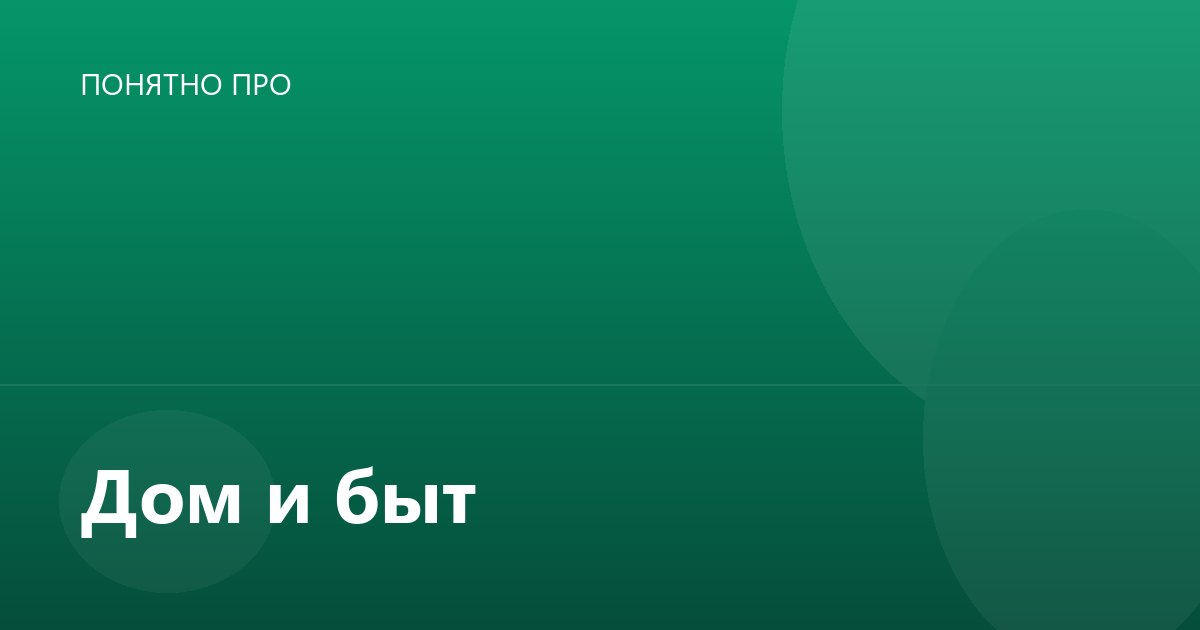
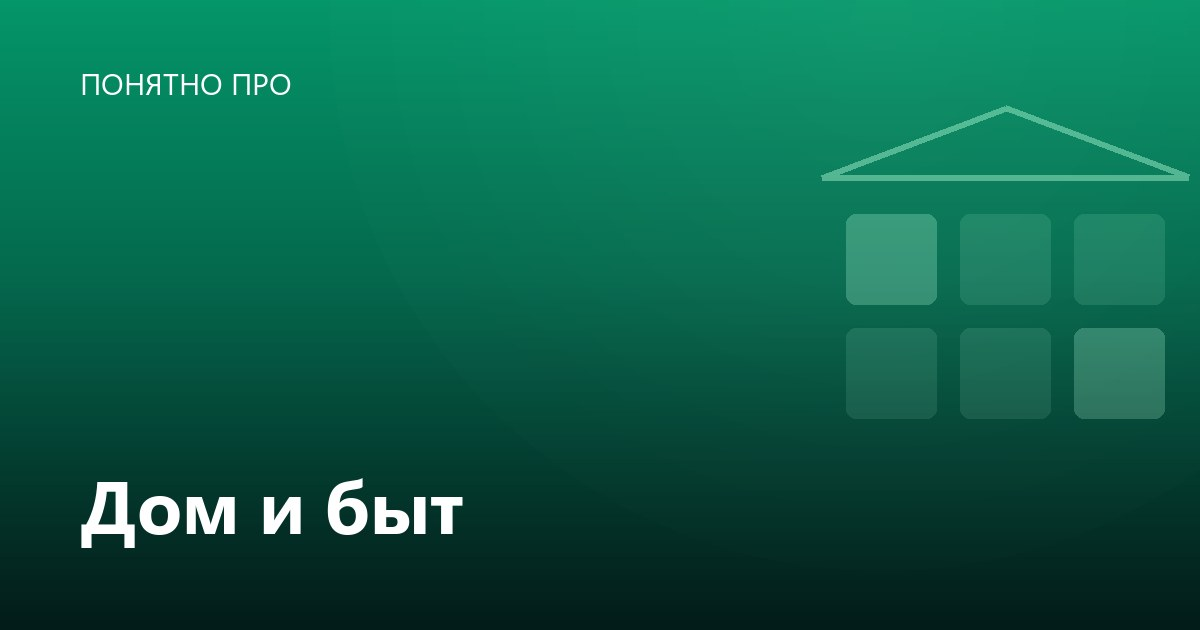
design: обложки с мотивами тем (графики, сеть, дом, дорога) и своими палитрами

diff --git a/scripts/make_cover.py b/scripts/make_cover.py
@@ -1,19 +1,26 @@
 #!/usr/bin/env python3
 # -*- coding: utf-8 -*-
-"""Обложки статей: графические, без текста заголовка.
+"""Обложки статей: графические, с мотивом под каждую тему.
 
-Зачем без заголовка: обложка стоит и в карточке сайта, и в ленте Дзена.
-Дублировать заголовок картинкой плохо — заголовок уже есть рядом.
+Идея: цвет и рисунок кодируют рубрику, поэтому в ленте Дзена и на сайте
+читатель узнаёт тему до чтения заголовка:
 
-    python scripts/make_cover.py --list      # для всех статей без обложки
-    python scripts/make_cover.py --all       # перерисовать все обложки
-    python scripts/make_cover.py "Рубрика" имя.jpg
+    Работа и доход    — синий,  столбики роста
+    ИИ и инструменты  — фиолетовый, сеть узлов
+    Дом и быт         — зелёный, окна дома
+    Авто и путь       — оранжевый, дорога
 
-Зависимости: Pillow.
+Заголовок статьи на обложку не наносится: он есть рядом в карточке и в ленте.
+
+    python scripts/make_cover.py --list      # только для статей без обложки
+    python scripts/make_cover.py --all       # перерисовать все
 """
 
 from __future__ import annotations
 
+import hashlib
+import math
+import random
 import sys
 from pathlib import Path
 
@@ -24,12 +31,12 @@ COVERS = ROOT / "static" / "covers"
 
 SIZE = (1200, 630)
 
-# палитра по рубрике: (начало градиента, конец градиента)
-RUBRIC_PALETTES = {
-    "rabota-i-dohod": ((37, 99, 235), (15, 23, 42)),
-    "ii-instrumenty": ((124, 58, 237), (30, 27, 75)),
-    "dom-i-byt": ((5, 150, 105), (6, 78, 59)),
-    "karta-i-put": ((234, 88, 12), (69, 26, 3)),
+# палитра: (верхний цвет, нижний цвет, цвет мотива)
+RUBRIC_STYLE = {
+    "rabota-i-dohod": ((37, 99, 235), (9, 20, 46), (147, 197, 253)),
+    "ii-instrumenty": ((124, 58, 237), (28, 17, 64), (196, 181, 253)),
+    "dom-i-byt": ((5, 150, 105), (4, 47, 42), (167, 243, 208)),
+    "karta-i-put": ((234, 88, 12), (59, 18, 4), (253, 186, 116)),
 }
 RUBRIC_TITLES = {
     "rabota-i-dohod": "Работа и доход",
@@ -37,7 +44,7 @@ RUBRIC_TITLES = {
     "dom-i-byt": "Дом и быт",
     "karta-i-put": "Авто и путь",
 }
-DEFAULT_PALETTE = ((26, 86, 219), (15, 23, 42))
+DEFAULT_STYLE = ((26, 86, 219), (15, 23, 42), (191, 219, 254))
 
 BOLD = [r"C:\Windows\Fonts\segoeuib.ttf", r"C:\Windows\Fonts\arialbd.ttf",
         "/usr/share/fonts/truetype/dejavu/DejaVuSans-Bold.ttf"]
@@ -54,52 +61,156 @@ def font(paths: list[str], size: int) -> ImageFont.FreeTypeFont:
     return ImageFont.load_default()
 
 
-def gradient(size: tuple[int, int], palette: tuple) -> Image.Image:
-    start, end = palette
+def gradient(size: tuple[int, int], top: tuple, bottom: tuple) -> Image.Image:
     w, h = size
-    img = Image.new("RGB", size, end)
+    img = Image.new("RGB", size, bottom)
     draw = ImageDraw.Draw(img)
     for y in range(h):
         t = y / h
-        color = tuple(int(start[i] + (end[i] - start[i]) * t) for i in range(3))
+        color = tuple(int(top[i] + (bottom[i] - top[i]) * t) for i in range(3))
         draw.line([(0, y), (w, y)], fill=color)
     return img
 
 
-def decorate(img: Image.Image, seed: str = "") -> None:
-    """Полупрозрачные круги и линия. Сдвиг зависит от slug — карточки не близнецы."""
-    import hashlib
+def glow(size: tuple[int, int], color: tuple, rnd: random.Random) -> Image.Image:
+    """Мягкое пятно света, чтобы фон не выглядел плоским."""
+    w, h = size
+    layer = Image.new("RGBA", size, (0, 0, 0, 0))
+    d = ImageDraw.Draw(layer)
+    cx = int(w * rnd.uniform(0.55, 0.95))
+    cy = int(h * rnd.uniform(-0.1, 0.35))
+    r = int(w * rnd.uniform(0.35, 0.55))
+    for i in range(18, 0, -1):
+        alpha = int(3 + (18 - i) * 0.9)
+        rr = int(r * i / 18)
+        d.ellipse([(cx - rr, cy - rr), (cx + rr, cy + rr)], fill=color + (alpha,))
+    return layer
 
-    w, h = img.size
-    dg = hashlib.md5(seed.encode("utf-8")).digest()
-    dx = (dg[0] / 255.0 - 0.5) * 0.18
-    dy = (dg[1] / 255.0 - 0.5) * 0.12
 
-    overlay = Image.new("RGBA", img.size, (0, 0, 0, 0))
-    d = ImageDraw.Draw(overlay)
-    d.ellipse([(w * (0.58 + dx), -h * 0.35), (w * (1.04 + dx), h * 0.70)], fill=(255, 255, 255, 18))
-    d.ellipse([(w * (0.76 + dy), h * (0.26 + dx)), (w * 1.04, h * 1.06)], fill=(255, 255, 255, 14))
-    d.ellipse([(w * (0.04 + dy), h * (0.58 + dx)), (w * (0.22 + dy), h * 0.94)], fill=(255, 255, 255, 12))
-    d.line([(0, h * (0.60 + dy)), (w, h * (0.60 + dy))], fill=(255, 255, 255, 22), width=2)
-    img.paste(Image.alpha_composite(img.convert("RGBA"), overlay).convert("RGB"), (0, 0))
+def motif_rabota(draw: ImageDraw.ImageDraw, w: int, h: int,
+                 color: tuple, rnd: random.Random) -> None:
+    """Столбики роста + восходящая линия."""
+    base_y = int(h * 0.80)
+    bars = 5
+    bw = int(w * 0.045)
+    gap = int(w * 0.022)
+    total = bars * bw + (bars - 1) * gap
+    x0 = int(w * 0.98 - total)
+    points = []
+    for i in range(bars):
+        hgt = int(h * rnd.uniform(0.10, 0.34))
+        x = x0 + i * (bw + gap)
+        draw.rounded_rectangle([(x, base_y - hgt), (x + bw, base_y)], radius=8,
+                               fill=color + (46,))
+        points.append((x + bw // 2, base_y - hgt - 14))
+    draw.line(points, fill=color + (120,), width=5, joint="curve")
+    for px, py in points:
+        draw.ellipse([(px - 7, py - 7), (px + 7, py + 7)], fill=color + (200,))
+
+
+def motif_ii(draw: ImageDraw.ImageDraw, w: int, h: int,
+             color: tuple, rnd: random.Random) -> None:
+    """Сеть узлов: точки и связи между соседними."""
+    nodes = []
+    for _ in range(9):
+        nodes.append((int(w * rnd.uniform(0.50, 0.96)), int(h * rnd.uniform(0.12, 0.80))))
+    for i, a in enumerate(nodes):
+        for b in nodes[i + 1:]:
+            dist = math.dist(a, b)
+            if dist < w * 0.22:
+                draw.line([a, b], fill=color + (38,), width=2)
+    for i, (x, y) in enumerate(nodes):
+        r = 15 if i % 4 == 0 else 8
+        draw.ellipse([(x - r, y - r), (x + r, y + r)],
+                     fill=color + ((150 if r > 10 else 110),))
+
+
+def motif_dom(draw: ImageDraw.ImageDraw, w: int, h: int,
+              color: tuple, rnd: random.Random) -> None:
+    """Окна дома: сетка скруглённых квадратов и линия крыши."""
+    cols, rows = 3, 2
+    cell = int(w * 0.075)
+    gap = int(w * 0.020)
+    total_w = cols * cell + (cols - 1) * gap
+    x0 = int(w * 0.97 - total_w)
+    y0 = int(h * 0.34)
+    for r in range(rows):
+        for c in range(cols):
+            x = x0 + c * (cell + gap)
+            y = y0 + r * (cell + gap)
+            draw.rounded_rectangle([(x, y), (x + cell, y + cell)], radius=10,
+                                   fill=color + ((34 if (r + c) % 3 else 74),))
+    # крыша
+    roof_y = y0 - int(h * 0.06)
+    draw.line([(x0 - gap, roof_y), (x0 + total_w + gap, roof_y)],
+              fill=color + (120,), width=6)
+    draw.line([(x0 - gap, roof_y), (x0 + total_w // 2, roof_y - int(h * 0.11))],
+              fill=color + (120,), width=6)
+    draw.line([(x0 + total_w + gap, roof_y), (x0 + total_w // 2, roof_y - int(h * 0.11))],
+              fill=color + (120,), width=6)
+
+
+def motif_karta(draw: ImageDraw.ImageDraw, w: int, h: int,
+                color: tuple, rnd: random.Random) -> None:
+    """Дорога: полоса с пунктиром уходит вдаль, слева — горизонт."""
+    band_top, band_bot = h * 0.50, h * 0.86
+    draw.polygon([(0, int(band_top)), (w, int(band_top - h * 0.12)),
+                  (w, int(band_bot - h * 0.16)), (0, int(band_bot))],
+                 fill=color + (26,))
+    # пунктир по центру полосы
+    steps = 8
+    for i in range(steps):
+        t0 = i / steps + 0.015
+        t1 = t0 + 0.06
+        mid0 = (band_top + band_bot) * 0.5 - h * 0.06 * t0
+        mid1 = (band_top + band_bot) * 0.5 - h * 0.06 * t1
+        draw.line([(int(w * t0), int(mid0)), (int(w * t1), int(mid1))],
+                  fill=color + (140,), width=7)
+    draw.line([(0, int(h * 0.50)), (w, int(h * 0.38))], fill=color + (60,), width=3)
+
+
+MOTIFS = {
+    "rabota-i-dohod": motif_rabota,
+    "ii-instrumenty": motif_ii,
+    "dom-i-byt": motif_dom,
+    "karta-i-put": motif_karta,
+}
 
 
 def make(rubric: str, filename: str, seed: str = "") -> Path:
-    palette = RUBRIC_PALETTES.get(rubric, DEFAULT_PALETTE)
-    img = gradient(SIZE, palette)
-    decorate(img, seed or filename)
-    draw = ImageDraw.Draw(img)
+    top, bottom, accent = RUBRIC_STYLE.get(rubric, DEFAULT_STYLE)
+    rnd = random.Random(int(hashlib.md5((seed or filename).encode("utf-8")).hexdigest()[:12], 16))
 
+    img = gradient(SIZE, top, bottom).convert("RGBA")
+    img = Image.alpha_composite(img, glow(SIZE, accent, rnd))
+
+    overlay = Image.new("RGBA", SIZE, (0, 0, 0, 0))
+    d = ImageDraw.Draw(overlay)
+    motif = MOTIFS.get(rubric)
+    if motif:
+        motif(d, SIZE[0], SIZE[1], accent, rnd)
+    img = Image.alpha_composite(img, overlay)
+
+    d = ImageDraw.Draw(img)
     w, h = SIZE
-    draw.text((80, 62), BRAND, font=font(REG, 30), fill=(255, 255, 255, 200))
+    # плавное затемнение снизу под подпись рубрики
+    shade = Image.new("RGBA", SIZE, (0, 0, 0, 0))
+    ds = ImageDraw.Draw(shade)
+    start = int(h * 0.42)
+    for y in range(start, h):
+        t = (y - start) / max(1, h - start)
+        ds.line([(0, y), (w, y)], fill=(0, 0, 0, int(105 * t ** 1.35)))
+    img = Image.alpha_composite(img, shade)
 
+    d = ImageDraw.Draw(img)
+    d.text((80, 62), BRAND, font=font(REG, 30), fill=(255, 255, 255, 200))
     title = RUBRIC_TITLES.get(rubric)
     if title:
-        draw.text((80, h - 190), title, font=font(BOLD, 76), fill=(255, 255, 255))
+        d.text((80, h - 176), title, font=font(BOLD, 74), fill=(255, 255, 255))
 
     COVERS.mkdir(parents=True, exist_ok=True)
     out = COVERS / filename
-    img.save(out, "JPEG", quality=86, optimize=True, progressive=True)
+    img.convert("RGB").save(out, "JPEG", quality=88, optimize=True, progressive=True)
     return out
 
 
@@ -118,8 +229,7 @@ def main() -> None:
         for a in articles:
             if not a.cover:
                 continue
-            exists = (COVERS / a.cover).exists()
-            if exists and not rebuild_all:
+            if (COVERS / a.cover).exists() and not rebuild_all:
                 continue
             make(a.rubric, a.cover, a.slug)
             print("обложка:", "static/covers/" + a.cover)
